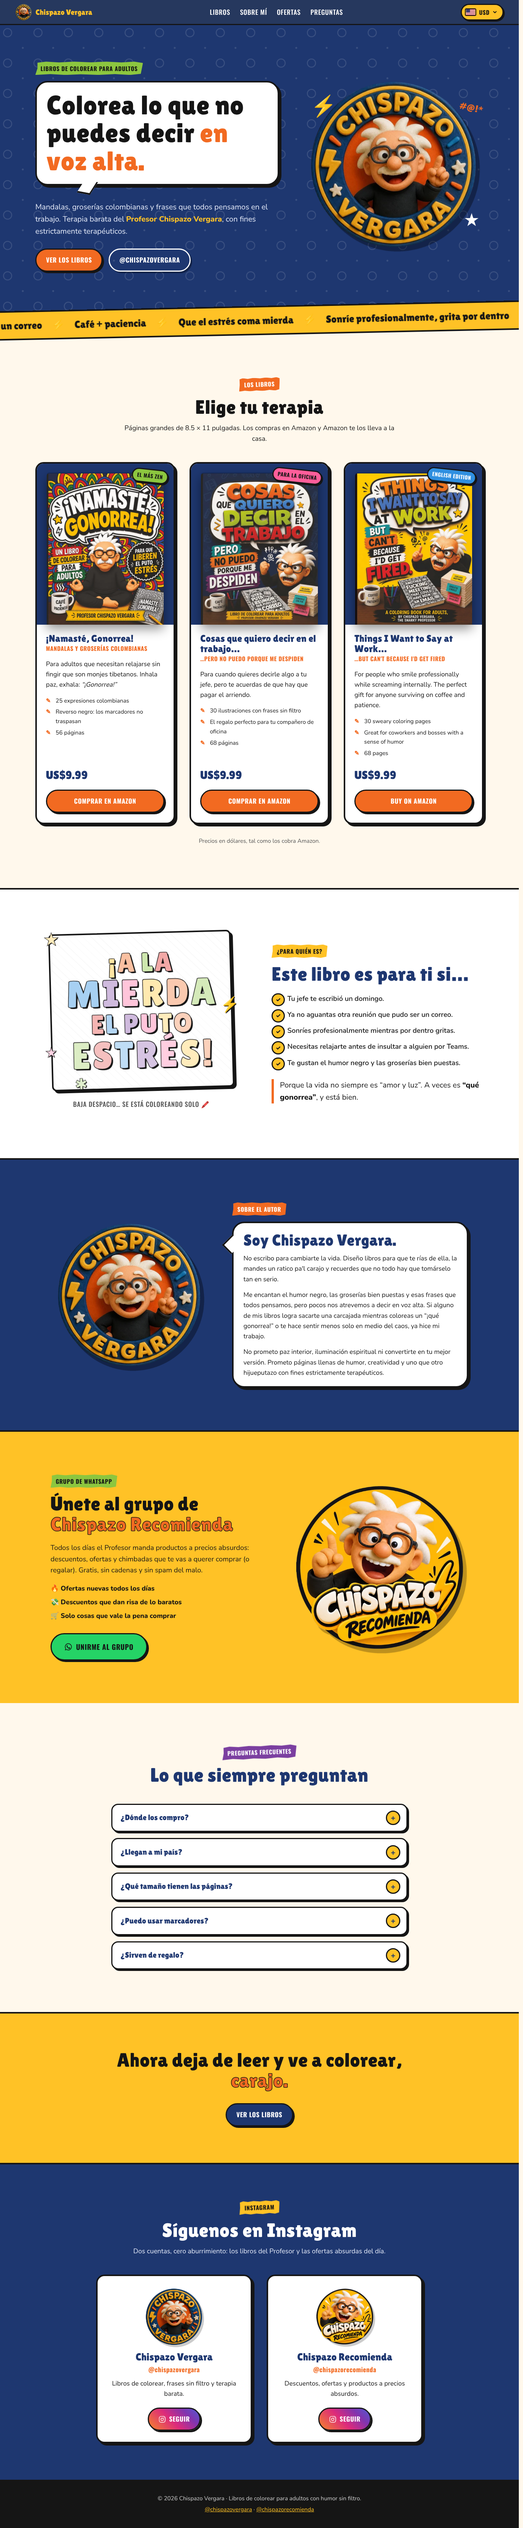
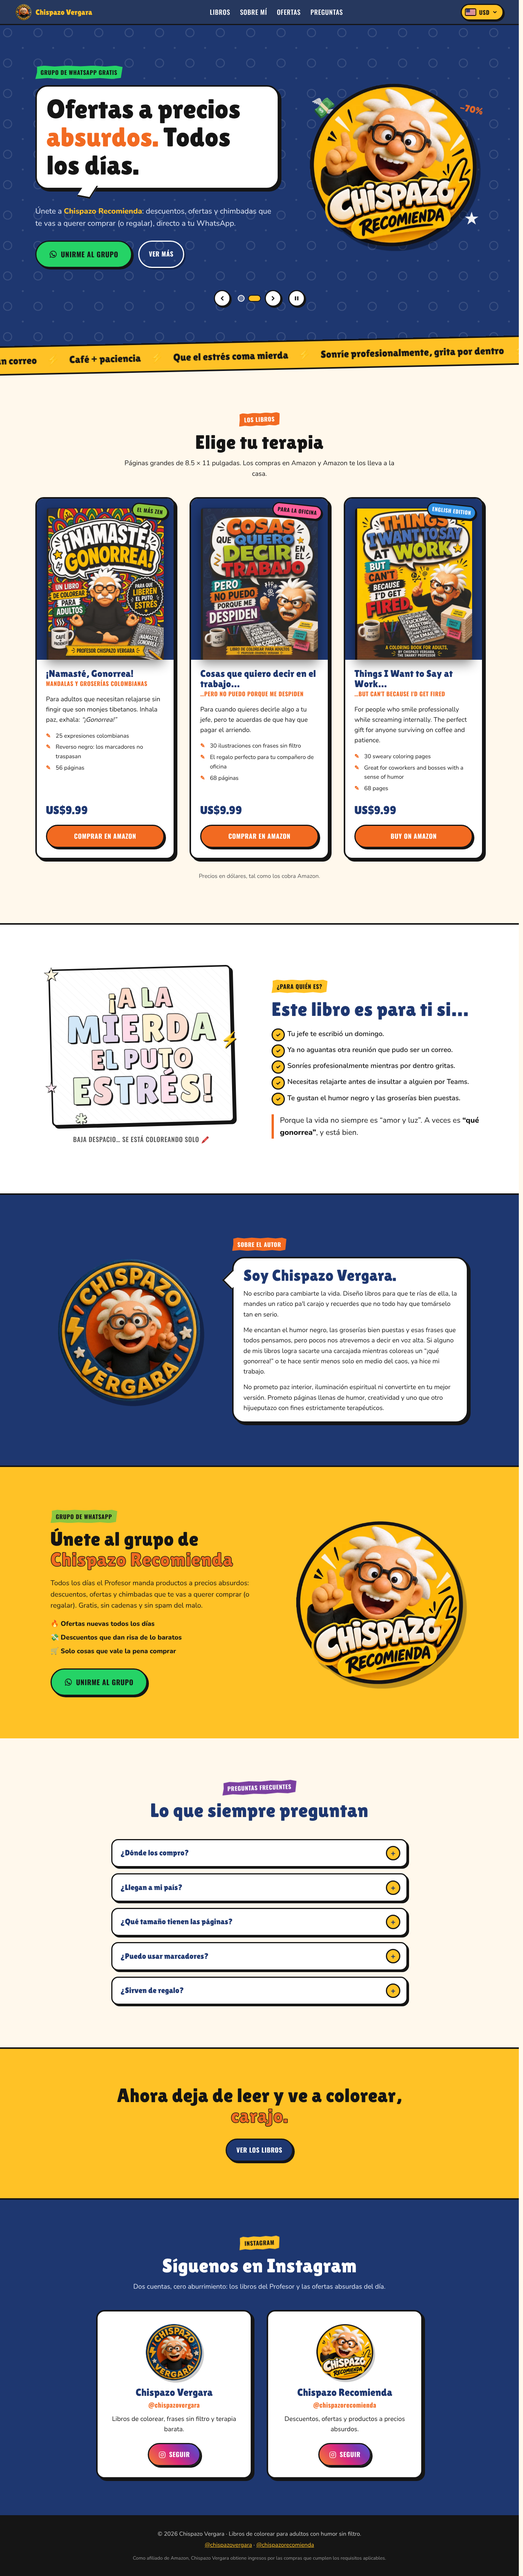
Chispazo: affiliate book links and rotating hero with WhatsApp promo
Book covers and buy buttons now point to the joylink.io affiliate links
(rel=sponsored), with the Amazon Associates disclosure in the footer.
The hero becomes a two-slide carousel (books, WhatsApp group) with dots,
arrows, pause, swipe, and pause on hover/focus/reduced motion. v=6.

Claude-Session: https://claude.ai/code/session_01RVrXk1ajRUH2FKbZKBCeS3

Changed region(s): [[0.0, 0.0, 0.9993, 0.6845], [0.0, 0.7156, 0.9993, 0.9956], [0.406, 0.6845, 0.5933, 0.7156]]

diff --git a/chispazo/web/index.html b/chispazo/web/index.html
@@ -13,7 +13,7 @@
   <link rel="preconnect" href="https://fonts.googleapis.com">
   <link rel="preconnect" href="https://fonts.gstatic.com" crossorigin>
   <link href="https://fonts.googleapis.com/css2?family=Lilita+One&family=Nunito:wght@400;600;800&family=Oswald:wght@500;700&display=swap" rel="stylesheet">
-  <link rel="stylesheet" href="styles.css?v=5">
+  <link rel="stylesheet" href="styles.css?v=6">
   <script>document.documentElement.classList.add('js');</script>
 </head>
 <body>
@@ -40,16 +40,18 @@
 
   <main>
     <!-- INICIO -->
-    <section class="hero" id="inicio">
+    <section class="hero" id="inicio" aria-roledescription="carrusel" aria-label="Novedades de Chispazo">
       <div class="doodles" aria-hidden="true"></div>
-      <div class="hero-inner">
+      <div class="hero-slides" id="hero-slides" aria-live="off">
+      <!-- Diapositiva 1: libros -->
+      <div class="hero-inner hero-slide is-active" role="group" aria-roledescription="diapositiva" aria-label="1 de 2: Libros">
         <div class="hero-copy">
-          <span class="tape tape-green reveal">Libros de colorear para adultos</span>
-          <div class="bubble reveal">
+          <span class="tape tape-green">Libros de colorear para adultos</span>
+          <div class="bubble">
             <h1>Colorea lo que no puedes decir <span class="hl">en voz alta.</span></h1>
           </div>
-          <p class="lead reveal">Mandalas, groserías colombianas y frases que todos pensamos en el trabajo. Terapia barata del <strong>Profesor Chispazo Vergara</strong>, con fines estrictamente terapéuticos.</p>
-          <div class="cta-row reveal">
+          <p class="lead">Mandalas, groserías colombianas y frases que todos pensamos en el trabajo. Terapia barata del <strong>Profesor Chispazo Vergara</strong>, con fines estrictamente terapéuticos.</p>
+          <div class="cta-row">
             <a class="btn btn-orange" href="#libros">Ver los libros</a>
             <a class="btn btn-ghost" href="https://www.instagram.com/chispazovergara/" target="_blank" rel="noopener">@chispazovergara</a>
           </div>
@@ -60,6 +62,48 @@
           <div class="spark s3" aria-hidden="true">#@!*</div>
           <img class="hero-logo" src="img/logo.webp" alt="Logo del Profesor Chispazo Vergara" width="520" height="520">
         </div>
+      </div>
+
+      <!-- Diapositiva 2: grupo de WhatsApp -->
+      <div class="hero-inner hero-slide" role="group" aria-roledescription="diapositiva" aria-label="2 de 2: Grupo de WhatsApp" hidden>
+        <div class="hero-copy">
+          <span class="tape tape-whatsapp">Grupo de WhatsApp gratis</span>
+          <div class="bubble">
+            <p class="hero-title">Ofertas a precios <span class="hl">absurdos.</span> Todos los días.</p>
+          </div>
+          <p class="lead">Únete a <strong>Chispazo Recomienda</strong>: descuentos, ofertas y chimbadas que te vas a querer comprar (o regalar), directo a tu WhatsApp.</p>
+          <div class="cta-row">
+            <a class="btn btn-whatsapp" href="https://chat.whatsapp.com/KEu668Ur5o73MOwhpCFmrl" target="_blank" rel="noopener">
+              <svg aria-hidden="true" width="22" height="22" viewBox="0 0 24 24"><path fill="currentColor" d="M12 2a10 10 0 0 0-8.6 15.1L2 22l5-1.3A10 10 0 1 0 12 2Zm0 18.2a8.2 8.2 0 0 1-4.2-1.1l-.3-.2-3 .8.8-2.9-.2-.3A8.2 8.2 0 1 1 12 20.2Zm4.5-6.1c-.2-.1-1.5-.7-1.7-.8-.2-.1-.4-.1-.6.1l-.8 1c-.1.2-.3.2-.5.1a6.7 6.7 0 0 1-3.3-2.9c-.3-.4.3-.4.7-1.3.1-.2 0-.3 0-.4l-.8-1.8c-.2-.5-.4-.4-.6-.4h-.5a1 1 0 0 0-.7.3 3 3 0 0 0-.9 2.2 5.2 5.2 0 0 0 1.1 2.7 11.8 11.8 0 0 0 4.5 4c1.7.7 2.4.8 3.2.7.5-.1 1.5-.6 1.8-1.2.2-.6.2-1.1.1-1.2l-.5-.2Z"/></svg>
+              Unirme al grupo
+            </a>
+            <a class="btn btn-ghost" href="#recomienda">Ver más</a>
+          </div>
+        </div>
+        <div class="hero-art">
+          <div class="spark s1" aria-hidden="true">💸</div>
+          <div class="spark s2" aria-hidden="true">★</div>
+          <div class="spark s3" aria-hidden="true">-70%</div>
+          <img class="hero-logo" src="img/chispazo-recomienda.webp" alt="Chispazo Recomienda" width="640" height="625">
+        </div>
+      </div>
+      </div>
+
+      <div class="hero-controls">
+        <button class="hero-arrow" type="button" id="hero-prev" aria-label="Diapositiva anterior">
+          <svg aria-hidden="true" width="18" height="18" viewBox="0 0 24 24"><path d="M15 6l-6 6 6 6" fill="none" stroke="currentColor" stroke-width="3.5" stroke-linecap="round" stroke-linejoin="round"/></svg>
+        </button>
+        <div class="hero-dots" id="hero-dots">
+          <button type="button" aria-label="Ver diapositiva 1: Libros" aria-current="true"></button>
+          <button type="button" aria-label="Ver diapositiva 2: Grupo de WhatsApp"></button>
+        </div>
+        <button class="hero-arrow" type="button" id="hero-next" aria-label="Diapositiva siguiente">
+          <svg aria-hidden="true" width="18" height="18" viewBox="0 0 24 24"><path d="M9 6l6 6-6 6" fill="none" stroke="currentColor" stroke-width="3.5" stroke-linecap="round" stroke-linejoin="round"/></svg>
+        </button>
+        <button class="hero-arrow hero-pause" type="button" id="hero-pause" aria-label="Pausar rotación">
+          <svg class="i-pause" aria-hidden="true" width="16" height="16" viewBox="0 0 24 24"><rect x="5" y="4" width="5" height="16" rx="1" fill="currentColor"/><rect x="14" y="4" width="5" height="16" rx="1" fill="currentColor"/></svg>
+          <svg class="i-play" aria-hidden="true" width="16" height="16" viewBox="0 0 24 24"><path d="M7 4l13 8-13 8z" fill="currentColor"/></svg>
+        </button>
       </div>
     </section>
 
@@ -89,7 +133,7 @@
 
       <div class="book-grid">
         <article class="book reveal">
-          <a class="cover" href="https://www.amazon.com/dp/B0H6P5P7J3" target="_blank" rel="noopener">
+          <a class="cover" href="https://joylink.io/colorear-libro" target="_blank" rel="sponsored noopener">
             <img src="img/namaste.webp" alt="Portada de ¡Namasté, Gonorrea!" width="700" height="906" loading="lazy">
             <span class="sticker sticker-green">El más zen</span>
           </a>
@@ -104,13 +148,13 @@
             </ul>
             <div class="buy">
               <span class="price" data-usd="9.99">US$9.99</span>
-              <a class="btn btn-orange" href="https://www.amazon.com/dp/B0H6P5P7J3" target="_blank" rel="noopener">Comprar en Amazon</a>
+              <a class="btn btn-orange" href="https://joylink.io/colorear-libro" target="_blank" rel="sponsored noopener">Comprar en Amazon</a>
             </div>
           </div>
         </article>
 
         <article class="book reveal">
-          <a class="cover" href="https://www.amazon.com/dp/B0H4R6XSQF" target="_blank" rel="noopener">
+          <a class="cover" href="https://joylink.io/para-adultos-libro" target="_blank" rel="sponsored noopener">
             <img src="img/cosas.webp" alt="Portada de Cosas que quiero decir en el trabajo pero no puedo porque me despiden" width="700" height="906" loading="lazy">
             <span class="sticker sticker-pink">Para la oficina</span>
           </a>
@@ -125,13 +169,13 @@
             </ul>
             <div class="buy">
               <span class="price" data-usd="9.99">US$9.99</span>
-              <a class="btn btn-orange" href="https://www.amazon.com/dp/B0H4R6XSQF" target="_blank" rel="noopener">Comprar en Amazon</a>
+              <a class="btn btn-orange" href="https://joylink.io/para-adultos-libro" target="_blank" rel="sponsored noopener">Comprar en Amazon</a>
             </div>
           </div>
         </article>
 
         <article class="book reveal" lang="en">
-          <a class="cover" href="https://www.amazon.com/dp/B0HDTSWCLP" target="_blank" rel="noopener">
+          <a class="cover" href="https://joylink.io/adult-sweary-coloring-book" target="_blank" rel="sponsored noopener">
             <img src="img/things.webp" alt="Cover of Things I want to say at work but can't because I'd get fired" width="700" height="906" loading="lazy">
             <span class="sticker sticker-blue">English edition</span>
           </a>
@@ -146,7 +190,7 @@
             </ul>
             <div class="buy">
               <span class="price" data-usd="9.99">US$9.99</span>
-              <a class="btn btn-orange" href="https://www.amazon.com/dp/B0HDTSWCLP" target="_blank" rel="noopener">Buy on Amazon</a>
+              <a class="btn btn-orange" href="https://joylink.io/adult-sweary-coloring-book" target="_blank" rel="sponsored noopener">Buy on Amazon</a>
             </div>
           </div>
         </article>
@@ -297,8 +341,9 @@
       ·
       <a href="https://www.instagram.com/chispazorecomienda/" target="_blank" rel="noopener">@chispazorecomienda</a>
     </p>
+    <p class="disclosure">Como afiliado de Amazon, Chispazo Vergara obtiene ingresos por las compras que cumplen los requisitos aplicables.</p>
   </footer>
 
-  <script src="script.js?v=5"></script>
+  <script src="script.js?v=6"></script>
 </body>
 </html>

diff --git a/chispazo/web/styles.css b/chispazo/web/styles.css
@@ -113,7 +113,40 @@ h2 { font-size: clamp(2rem, 5vw, 3.2rem); }
   background-size: 80px 80px;
 }
 .hero-inner { position: relative; max-width: 1180px; margin: 0 auto; display: grid; grid-template-columns: 1.15fr .85fr; gap: clamp(2rem, 5vw, 4rem); align-items: center; }
-.hero h1 { font-size: clamp(2.4rem, 6vw, 4.4rem); }
+.hero h1, .hero-title { font-family: var(--font-display); font-size: clamp(2.4rem, 6vw, 4.4rem); line-height: 1.05; margin: 0; }
+
+/* ---------- Carrusel del inicio ---------- */
+.hero-slides { position: relative; display: grid; }
+.hero-slide { grid-area: 1 / 1; width: 100%; opacity: 0; visibility: hidden; transition: opacity .6s ease, visibility .6s; }
+.hero-slide.is-active { opacity: 1; visibility: visible; }
+.hero-slide.is-active .hero-copy > * { animation: slide-in .7s cubic-bezier(.2, .8, .3, 1) both; }
+.hero-slide.is-active .hero-copy > :nth-child(2) { animation-delay: .08s; }
+.hero-slide.is-active .hero-copy > :nth-child(3) { animation-delay: .16s; }
+.hero-slide.is-active .hero-copy > :nth-child(4) { animation-delay: .24s; }
+@keyframes slide-in { from { opacity: 0; transform: translateX(-30px); } to { opacity: 1; transform: none; } }
+.tape-whatsapp { background: #25D366; }
+
+.hero-controls { position: relative; display: flex; align-items: center; justify-content: center; gap: .7rem; margin-top: clamp(2rem, 4vw, 3rem); }
+.hero-arrow {
+  display: grid; place-items: center; width: 44px; height: 44px; cursor: pointer;
+  background: var(--white); color: var(--black); border: 3px solid var(--black); border-radius: 50%;
+  box-shadow: 3px 3px 0 var(--black); transition: transform .15s ease, box-shadow .15s ease;
+}
+.hero-arrow:hover { transform: translate(-1px, -1px); box-shadow: 4px 4px 0 var(--black); }
+.hero-arrow:focus-visible, .hero-dots button:focus-visible { outline: 3px solid var(--yellow); outline-offset: 3px; }
+.hero-pause { margin-left: .4rem; }
+.hero-pause .i-play, .hero.is-paused .hero-pause .i-pause { display: none; }
+.hero.is-paused .hero-pause .i-play { display: block; }
+.hero-dots { display: flex; gap: .2rem; }
+.hero-dots button {
+  width: 32px; height: 44px; padding: 0; cursor: pointer; background: none; border: 0; position: relative;
+}
+.hero-dots button::before {
+  content: ""; position: absolute; inset: 50% auto auto 50%; translate: -50% -50%;
+  width: 14px; height: 14px; border-radius: 999px; background: rgba(255,255,255,.35); border: 2px solid var(--white);
+  transition: width .3s ease, background-color .3s ease;
+}
+.hero-dots button[aria-current="true"]::before { width: 30px; background: var(--yellow); border-color: var(--black); }
 .hl { color: var(--orange); }
 .lead { font-size: clamp(1.05rem, 2vw, 1.25rem); max-width: 34em; margin: 2.6rem 0 1.8rem; color: #E6ECFA; }
 .lead strong { color: var(--yellow); }
@@ -319,6 +352,7 @@ h2 { font-size: clamp(2rem, 5vw, 3.2rem); }
 .footer { background: var(--black); color: #cfcfcf; text-align: center; padding: 2rem 16px; font-size: .95rem; }
 .footer p { margin: .3rem 0; }
 .footer a { color: var(--yellow); }
+.footer .disclosure { font-size: .8rem; color: #9a9a9a; margin-top: .8rem; }
 
 /* ---------- Reveal on scroll ---------- */
 .js .reveal { opacity: 0; transform: translateY(28px); transition: opacity .7s ease, transform .7s cubic-bezier(.2, .8, .3, 1); }
@@ -331,6 +365,7 @@ h2 { font-size: clamp(2rem, 5vw, 3.2rem); }
   .social-grid { max-width: 440px; }
   .deals-img { order: -1; width: min(70vw, 320px); }
   .hero-art { order: -1; }
+  .hero-slide .spark.s3 { font-size: 1.3rem; }
   .hero-logo { width: min(70vw, 320px); }
   .nav { display: none; }
   .bubble-left::after { left: 50%; top: -26px; transform: rotate(-135deg) translateX(50%); }

diff --git a/chispazo/web/script.js b/chispazo/web/script.js
@@ -215,3 +215,71 @@ if (currencyMenu) {
       .catch(() => { /* se quedan las tasas de respaldo */ });
   }
 }
+
+// Carrusel del inicio: rota entre los libros y el grupo de WhatsApp
+const hero = document.getElementById('inicio');
+const heroSlides = hero ? [...hero.querySelectorAll('.hero-slide')] : [];
+if (heroSlides.length > 1) {
+  const dots = [...document.querySelectorAll('#hero-dots button')];
+  const pauseBtn = document.getElementById('hero-pause');
+  const live = document.getElementById('hero-slides');
+  const reduceMotion = window.matchMedia('(prefers-reduced-motion: reduce)').matches;
+  const DELAY = 7000;
+  let current = 0;
+  let timer = null;
+  let userPaused = reduceMotion; // con movimiento reducido no rota sola
+  let hovering = false;
+  let focusInside = false;
+
+  const show = (i) => {
+    current = (i + heroSlides.length) % heroSlides.length;
+    heroSlides.forEach((slide, k) => {
+      const on = k === current;
+      slide.hidden = false;
+      slide.classList.toggle('is-active', on);
+      slide.inert = !on; // lo que no se ve no recibe clics ni foco
+      slide.setAttribute('aria-hidden', String(!on));
+    });
+    dots.forEach((d, k) => (k === current ? d.setAttribute('aria-current', 'true') : d.removeAttribute('aria-current')));
+  };
+
+  const stop = () => { clearInterval(timer); timer = null; };
+  const sync = () => {
+    const shouldRun = !userPaused && !hovering && !focusInside && !document.hidden;
+    if (shouldRun && !timer) timer = setInterval(() => show(current + 1), DELAY);
+    if (!shouldRun) stop();
+    // Mientras rota sola no se anuncia cada cambio; detenida, sí
+    live.setAttribute('aria-live', shouldRun ? 'off' : 'polite');
+  };
+  const restart = () => { stop(); sync(); }; // reinicia la cuenta tras un cambio manual
+
+  const updatePause = () => {
+    hero.classList.toggle('is-paused', userPaused);
+    pauseBtn.setAttribute('aria-label', userPaused ? 'Reanudar rotación' : 'Pausar rotación');
+  };
+
+  document.getElementById('hero-prev').addEventListener('click', () => { show(current - 1); restart(); });
+  document.getElementById('hero-next').addEventListener('click', () => { show(current + 1); restart(); });
+  dots.forEach((d, k) => d.addEventListener('click', () => { show(k); restart(); }));
+  pauseBtn.addEventListener('click', () => { userPaused = !userPaused; updatePause(); sync(); });
+
+  hero.addEventListener('mouseenter', () => { hovering = true; sync(); });
+  hero.addEventListener('mouseleave', () => { hovering = false; sync(); });
+  hero.addEventListener('focusin', () => { focusInside = true; sync(); });
+  hero.addEventListener('focusout', (e) => { if (!hero.contains(e.relatedTarget)) { focusInside = false; sync(); } });
+  document.addEventListener('visibilitychange', sync);
+
+  // Deslizar con el dedo en el celular
+  let touchX = null;
+  hero.addEventListener('touchstart', (e) => { touchX = e.touches[0].clientX; }, { passive: true });
+  hero.addEventListener('touchend', (e) => {
+    if (touchX === null) return;
+    const dx = e.changedTouches[0].clientX - touchX;
+    if (Math.abs(dx) > 50) { show(current + (dx < 0 ? 1 : -1)); restart(); }
+    touchX = null;
+  });
+
+  show(0);
+  updatePause();
+  sync();
+}

diff --git a/.claude/skills/neweb/SKILL.md b/.claude/skills/neweb/SKILL.md
@@ -95,6 +95,8 @@ Archivos en `<cliente>/web/`: `index.html`, `styles.css`, `script.js` e `img/`.
 - Selector de moneda como menú desplegable en la barra superior, con banderas SVG (COP, MXN, ARS, CLP, USD), accesible con teclado y nota de precios debajo de las tarjetas: tasa del día desde `https://open.er-api.com/v6/latest/USD` con caché de 12 h y tasas de respaldo, moneda inicial según `navigator.language`, nota de "precio aproximado". Las banderas en SVG, porque los emojis de banderas no se ven en Windows.
 - Sección de grupo de WhatsApp con botón verde e ícono. Un enlace `chat.whatsapp.com/…` es un **grupo**; `whatsapp.com/channel/…` es un **canal**. Usa la palabra correcta.
 - Frase que se colorea letra por letra al bajar (`#frase` en `script.js`).
+- Carrusel en el inicio (`.hero-slides`): rota cada 7 s, con puntos, flechas, botón de pausa y deslizar con el dedo; se detiene con el mouse encima, con foco o con movimiento reducido, y las diapositivas ocultas quedan `inert`.
+- Enlaces de afiliado: `rel="sponsored noopener"` y la línea de divulgación de Amazon en el pie de página (lo exige el programa de afiliados).
 - Tarjetas para seguir varias cuentas de Instagram (`.social`), con logo de cada submarca.
 - Cinta animada con frases (`.marquee`), preguntas frecuentes con `<details>` y tarjetas de producto con botón de compra.
 
